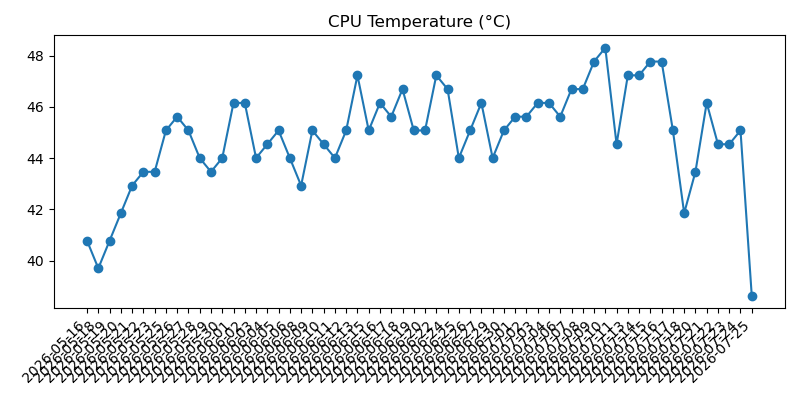
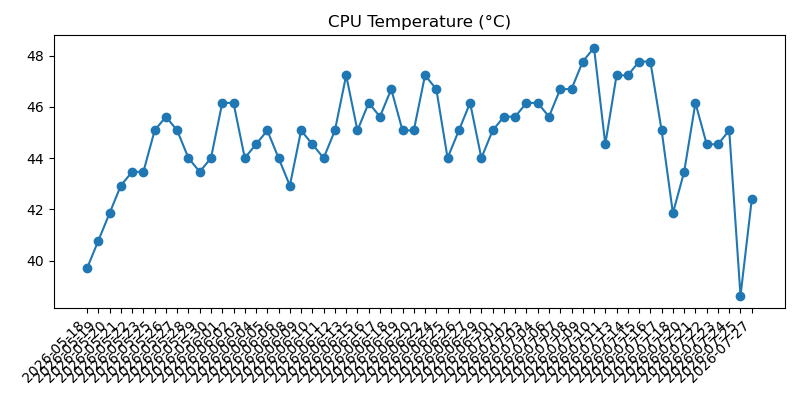
Add daily system and weather report

Changed region(s): [[0.0938, 0.09, 0.9688, 0.75], [0.0938, 0.81, 0.9375, 0.87]]

diff --git a/2026-07.md b/2026-07.md
@@ -748,3 +748,37 @@
 - Overall: Warning
 - Warning: Power issue detected: Undervoltage has occurred; Throttling has occurred
 
+## 2026-07-27 11:08:49
+
+### Machine
+- Uptime: up 1 week, 2 days, 23 hours, 56 minutes
+- CPU load (1m, 5m, 15m): 0.08, 0.02, 0.01
+- RAM used: 167 MB / 921 MB (18.1%)
+- Disk used (/): 3.6 GB / 28.8 GB (12.4%)
+- Free disk space (/): 24.0 GB
+- CPU temp: 42.4°C
+- Voltage / throttling: Undervoltage has occurred; Throttling has occurred
+
+### Reachability
+- Internet check (1.1.1.1): Reachable (3.4 ms)
+
+### Weather
+- Madrid:
+  - Condition: Despejado
+  - Max temp: 34°C
+  - Min temp: 19°C
+  - Feels like: 26°C
+  - Chance of rain: 0%
+  - Warnings: None reported
+- Barcelona:
+  - Condition: Poco nuboso
+  - Max temp: 30°C
+  - Min temp: 22°C
+  - Feels like: 26°C
+  - Chance of rain: 5%
+  - Warnings: None reported
+
+### Health
+- Overall: Warning
+- Warning: Power issue detected: Undervoltage has occurred; Throttling has occurred
+
